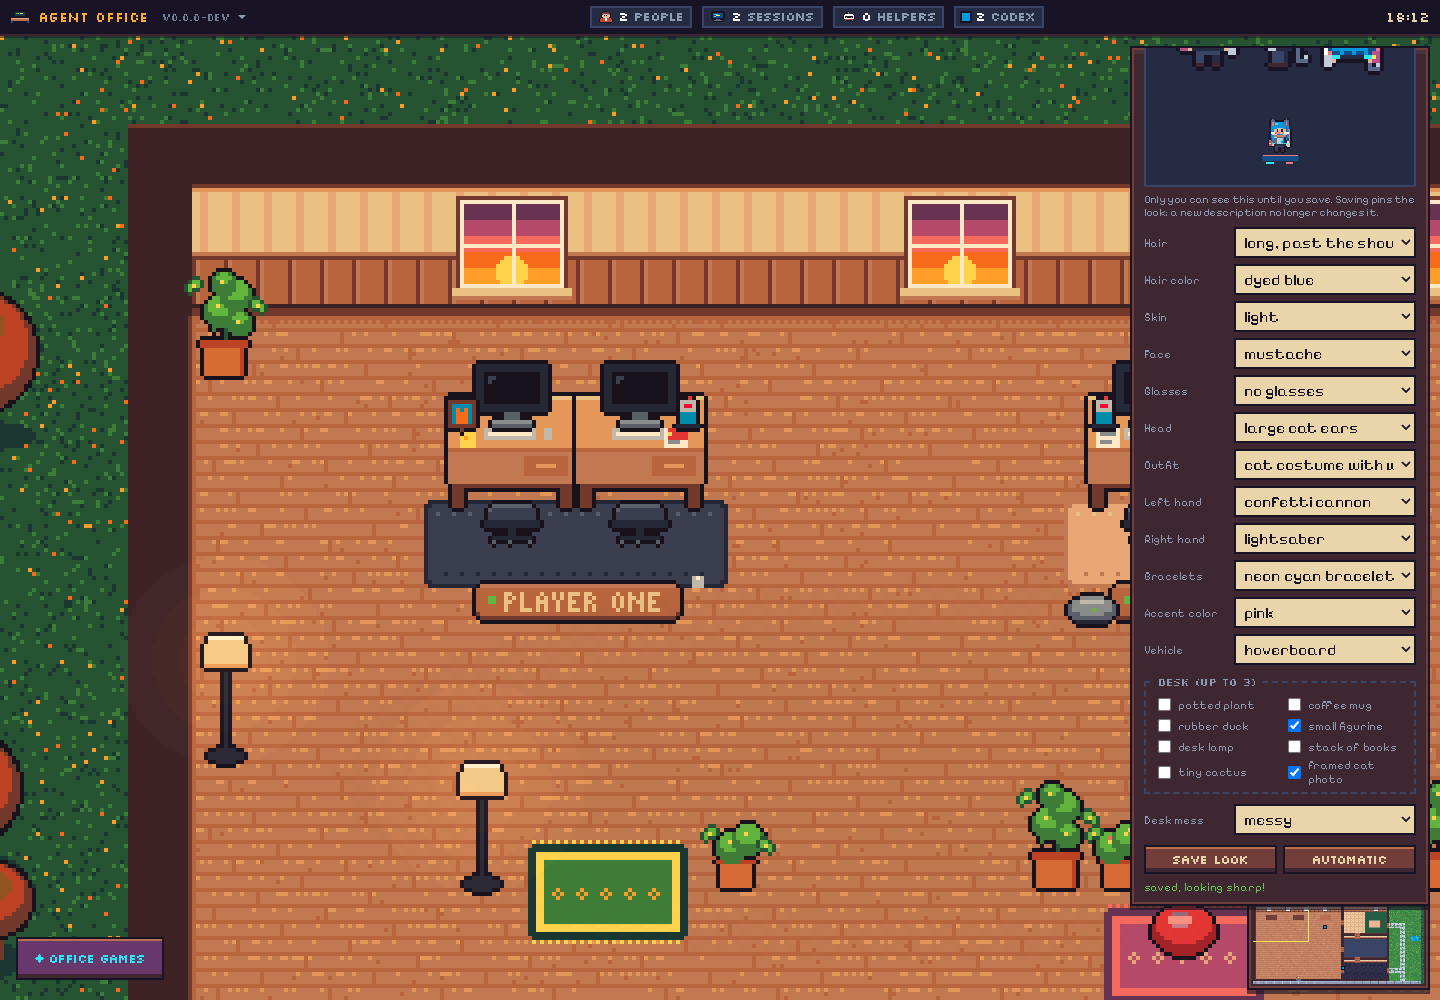
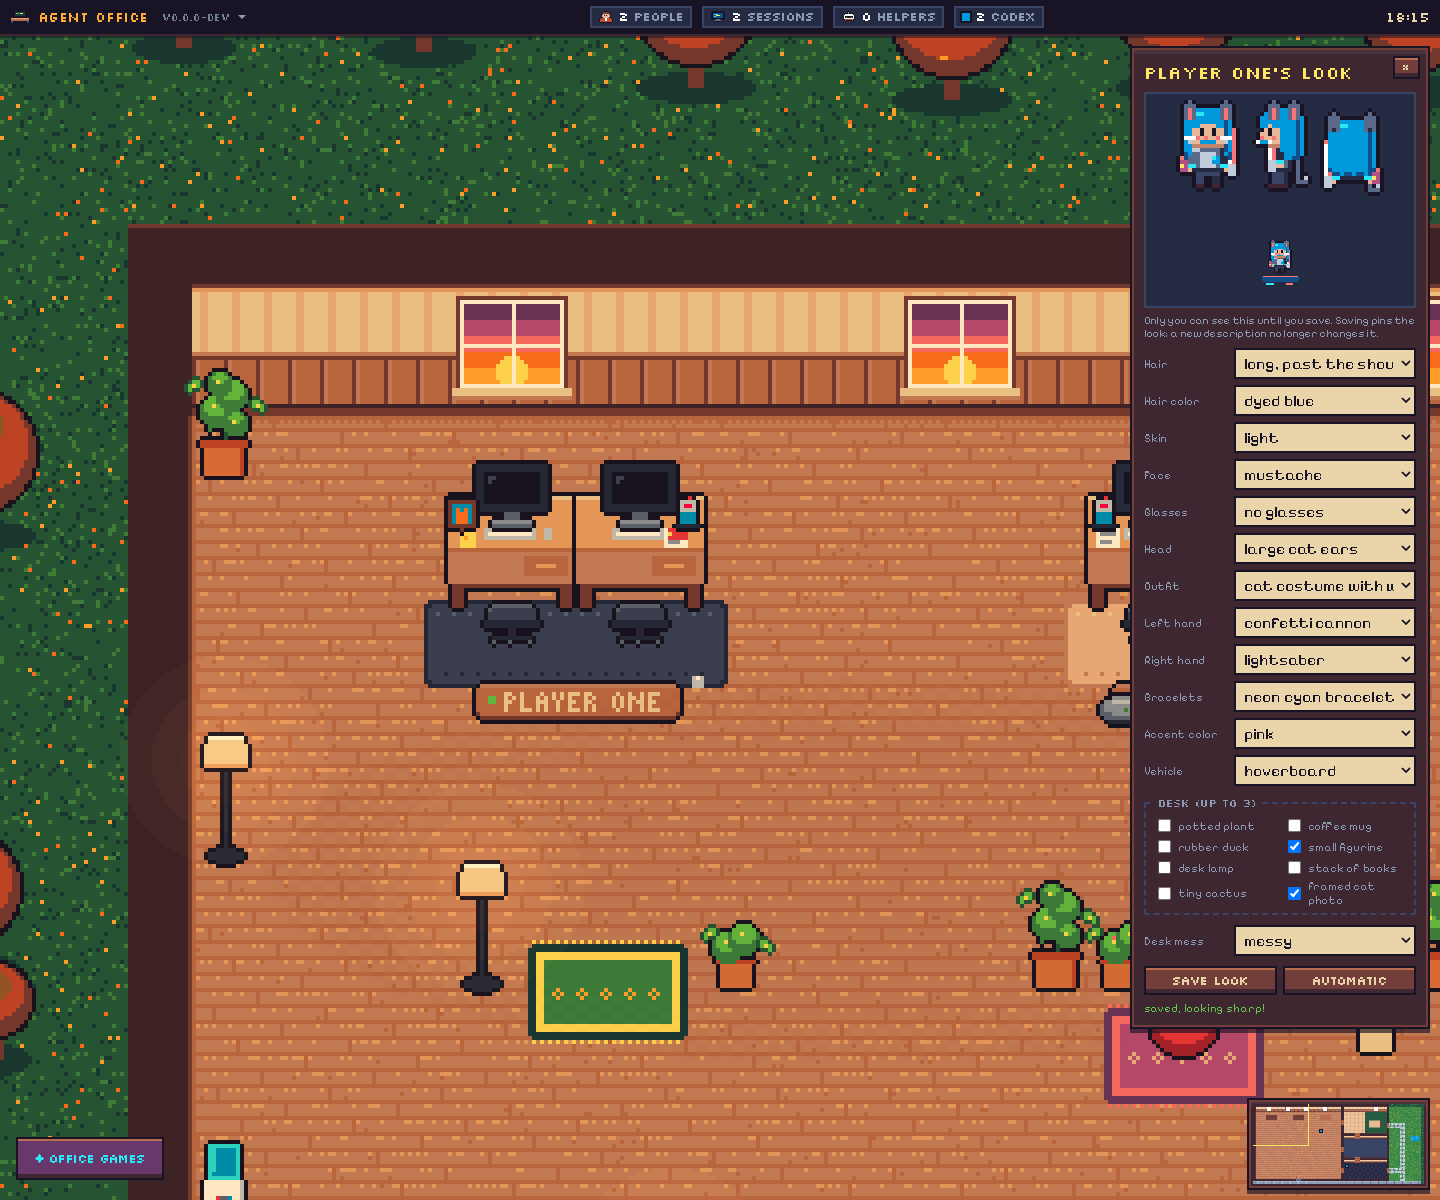
Capture the full shared look editor in reproducible browser previews

diff --git a/tools/screenshots/party-smoke.ts b/tools/screenshots/party-smoke.ts
@@ -175,7 +175,12 @@ try {
   await page.locator('select[name="leftHand"]').selectOption("confetti");
   await page.locator('select[name="rightHand"]').selectOption("lightsaber");
   await saveLook();
+  await page.setViewportSize({ width: 1440, height: 1200 });
+  await page.locator(".hud-panel").evaluate((el) => {
+    el.scrollTop = 0;
+  });
   await page.screenshot({ path: `${out}/shared-look-editor-desktop.png` });
+  await page.setViewportSize({ width: 1440, height: 1000 });
   await other.waitForFunction(() => {
     const p = window.__office.model.people.get("player-one") as {
       avatar: { wrist: string; rightHand: string };
